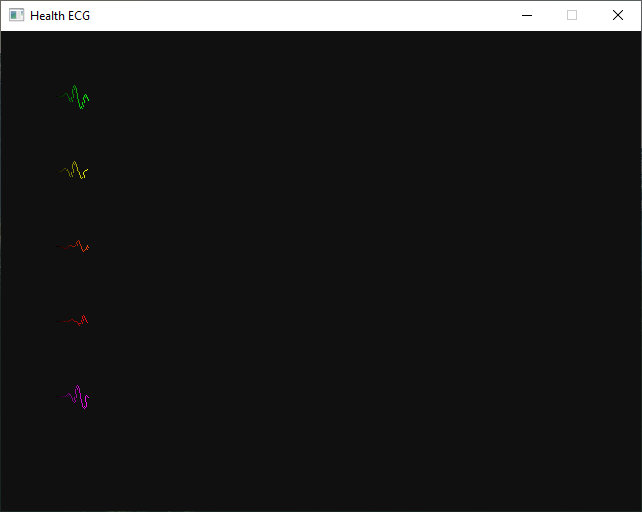
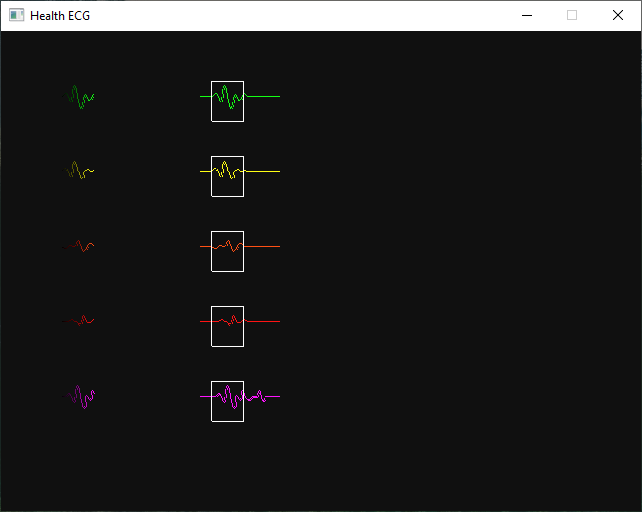
Add minimap

diff --git a/main.go b/main.go
@@ -16,12 +16,13 @@ const (
 	initialXOffset       = 50
 	initialYOffset       = 50
 	distanceBetweenViews = 75
+	minimapOffset        = 150
 )
 
 var (
 	backgroundColor = color.NRGBA{0x10, 0x10, 0x10, 0xff}
-	ecgOffsetX     = 0
-	healthECGViews = [5]HealthECGView{
+	ecgOffsetX      = 0
+	healthECGViews  = [5]HealthECGView{
 		NewHealthECGFine(),
 		NewHealthECGYellowCaution(),
 		NewHealthECGOrangeCaution(),
@@ -44,6 +45,7 @@ func (g *Game) Draw(screen *ebiten.Image) {
 	screen.Fill(backgroundColor)
 	for i := 0; i < len(healthECGViews); i++ {
 		DrawECGView(screen, healthECGViews[i], initialXOffset, initialYOffset+distanceBetweenViews*i)
+		DrawMinimap(screen, healthECGViews[i], initialXOffset, initialYOffset+distanceBetweenViews*i)
 	}
 }
 
@@ -82,6 +84,35 @@ func DrawECGView(screen *ebiten.Image, ecgView HealthECGView, xOffset int, yOffs
 		finalColor := color.RGBA{uint8(red), uint8(green), uint8(blue), 255}
 		ebitenutil.DrawLine(screen, float64(destX), float64(destY), float64(destX+width), float64(destY+height), finalColor)
 	}
+}
+
+func DrawMinimap(screen *ebiten.Image, ecgView HealthECGView, xOffset int, yOffset int) {
+	for startX := 0; startX < len(ecgView.Lines); startX++ {
+		// Draw a vertical line for the current line
+		destX := startX + xOffset + minimapOffset
+		destY := ecgView.Lines[startX][0] + yOffset
+		width := 1
+		height := ecgView.Lines[startX][1] + 1
+
+		lineColor := ecgView.Color
+		finalColor := color.RGBA{uint8(lineColor[0]), uint8(lineColor[1]), uint8(lineColor[2]), 255}
+		ebitenutil.DrawLine(screen, float64(destX), float64(destY), float64(destX+width), float64(destY+height), finalColor)
+	}
+
+	// Draw rectangular region over rendered area
+	regionColor := color.RGBA{255, 255, 255, 255}
+	regionUpperX := ecgOffsetX + xOffset + minimapOffset
+	regionLowerY := yOffset
+	regionLowerX := regionUpperX - 32
+	if regionLowerX < 0 {
+		regionLowerX = 0
+	}
+	regionUpperY := regionLowerY + 40
+
+	ebitenutil.DrawLine(screen, float64(regionLowerX), float64(regionLowerY), float64(regionLowerX), float64(regionUpperY), regionColor)
+	ebitenutil.DrawLine(screen, float64(regionUpperX), float64(regionLowerY), float64(regionUpperX), float64(regionUpperY), regionColor)
+	ebitenutil.DrawLine(screen, float64(regionLowerX), float64(regionLowerY), float64(regionUpperX), float64(regionLowerY), regionColor)
+	ebitenutil.DrawLine(screen, float64(regionLowerX), float64(regionUpperY), float64(regionUpperX), float64(regionUpperY), regionColor)
 }
 
 func main() {
